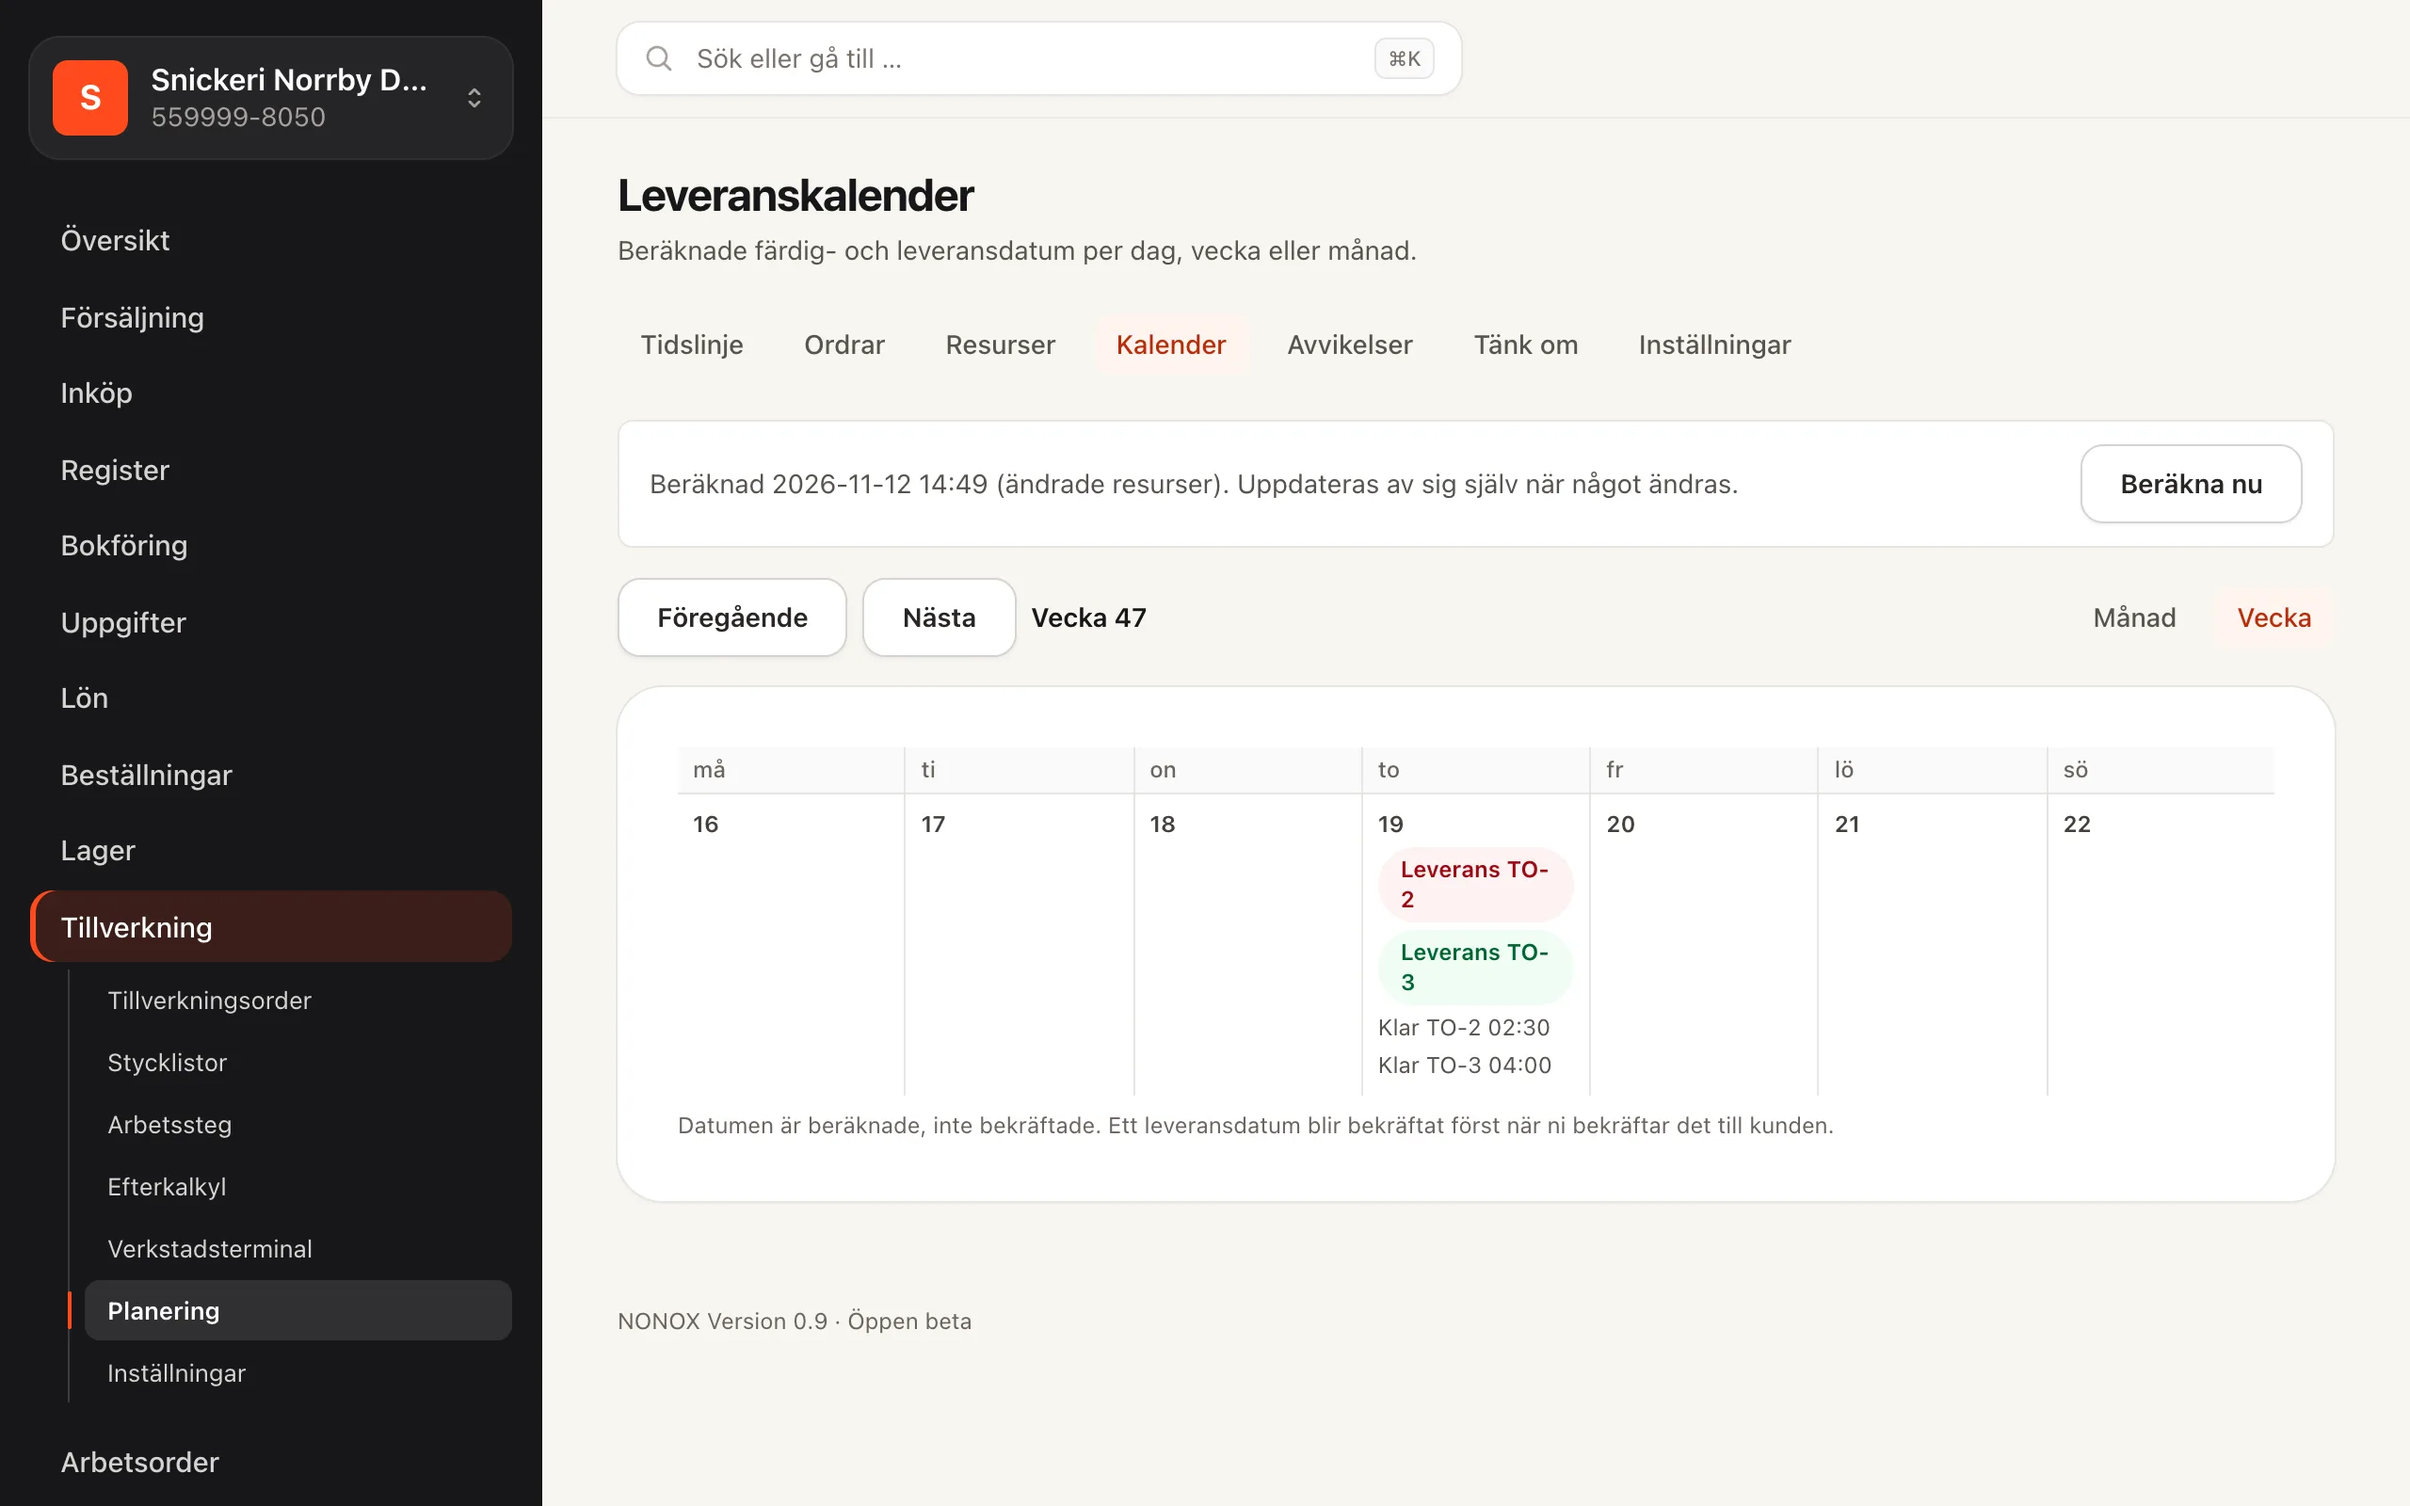
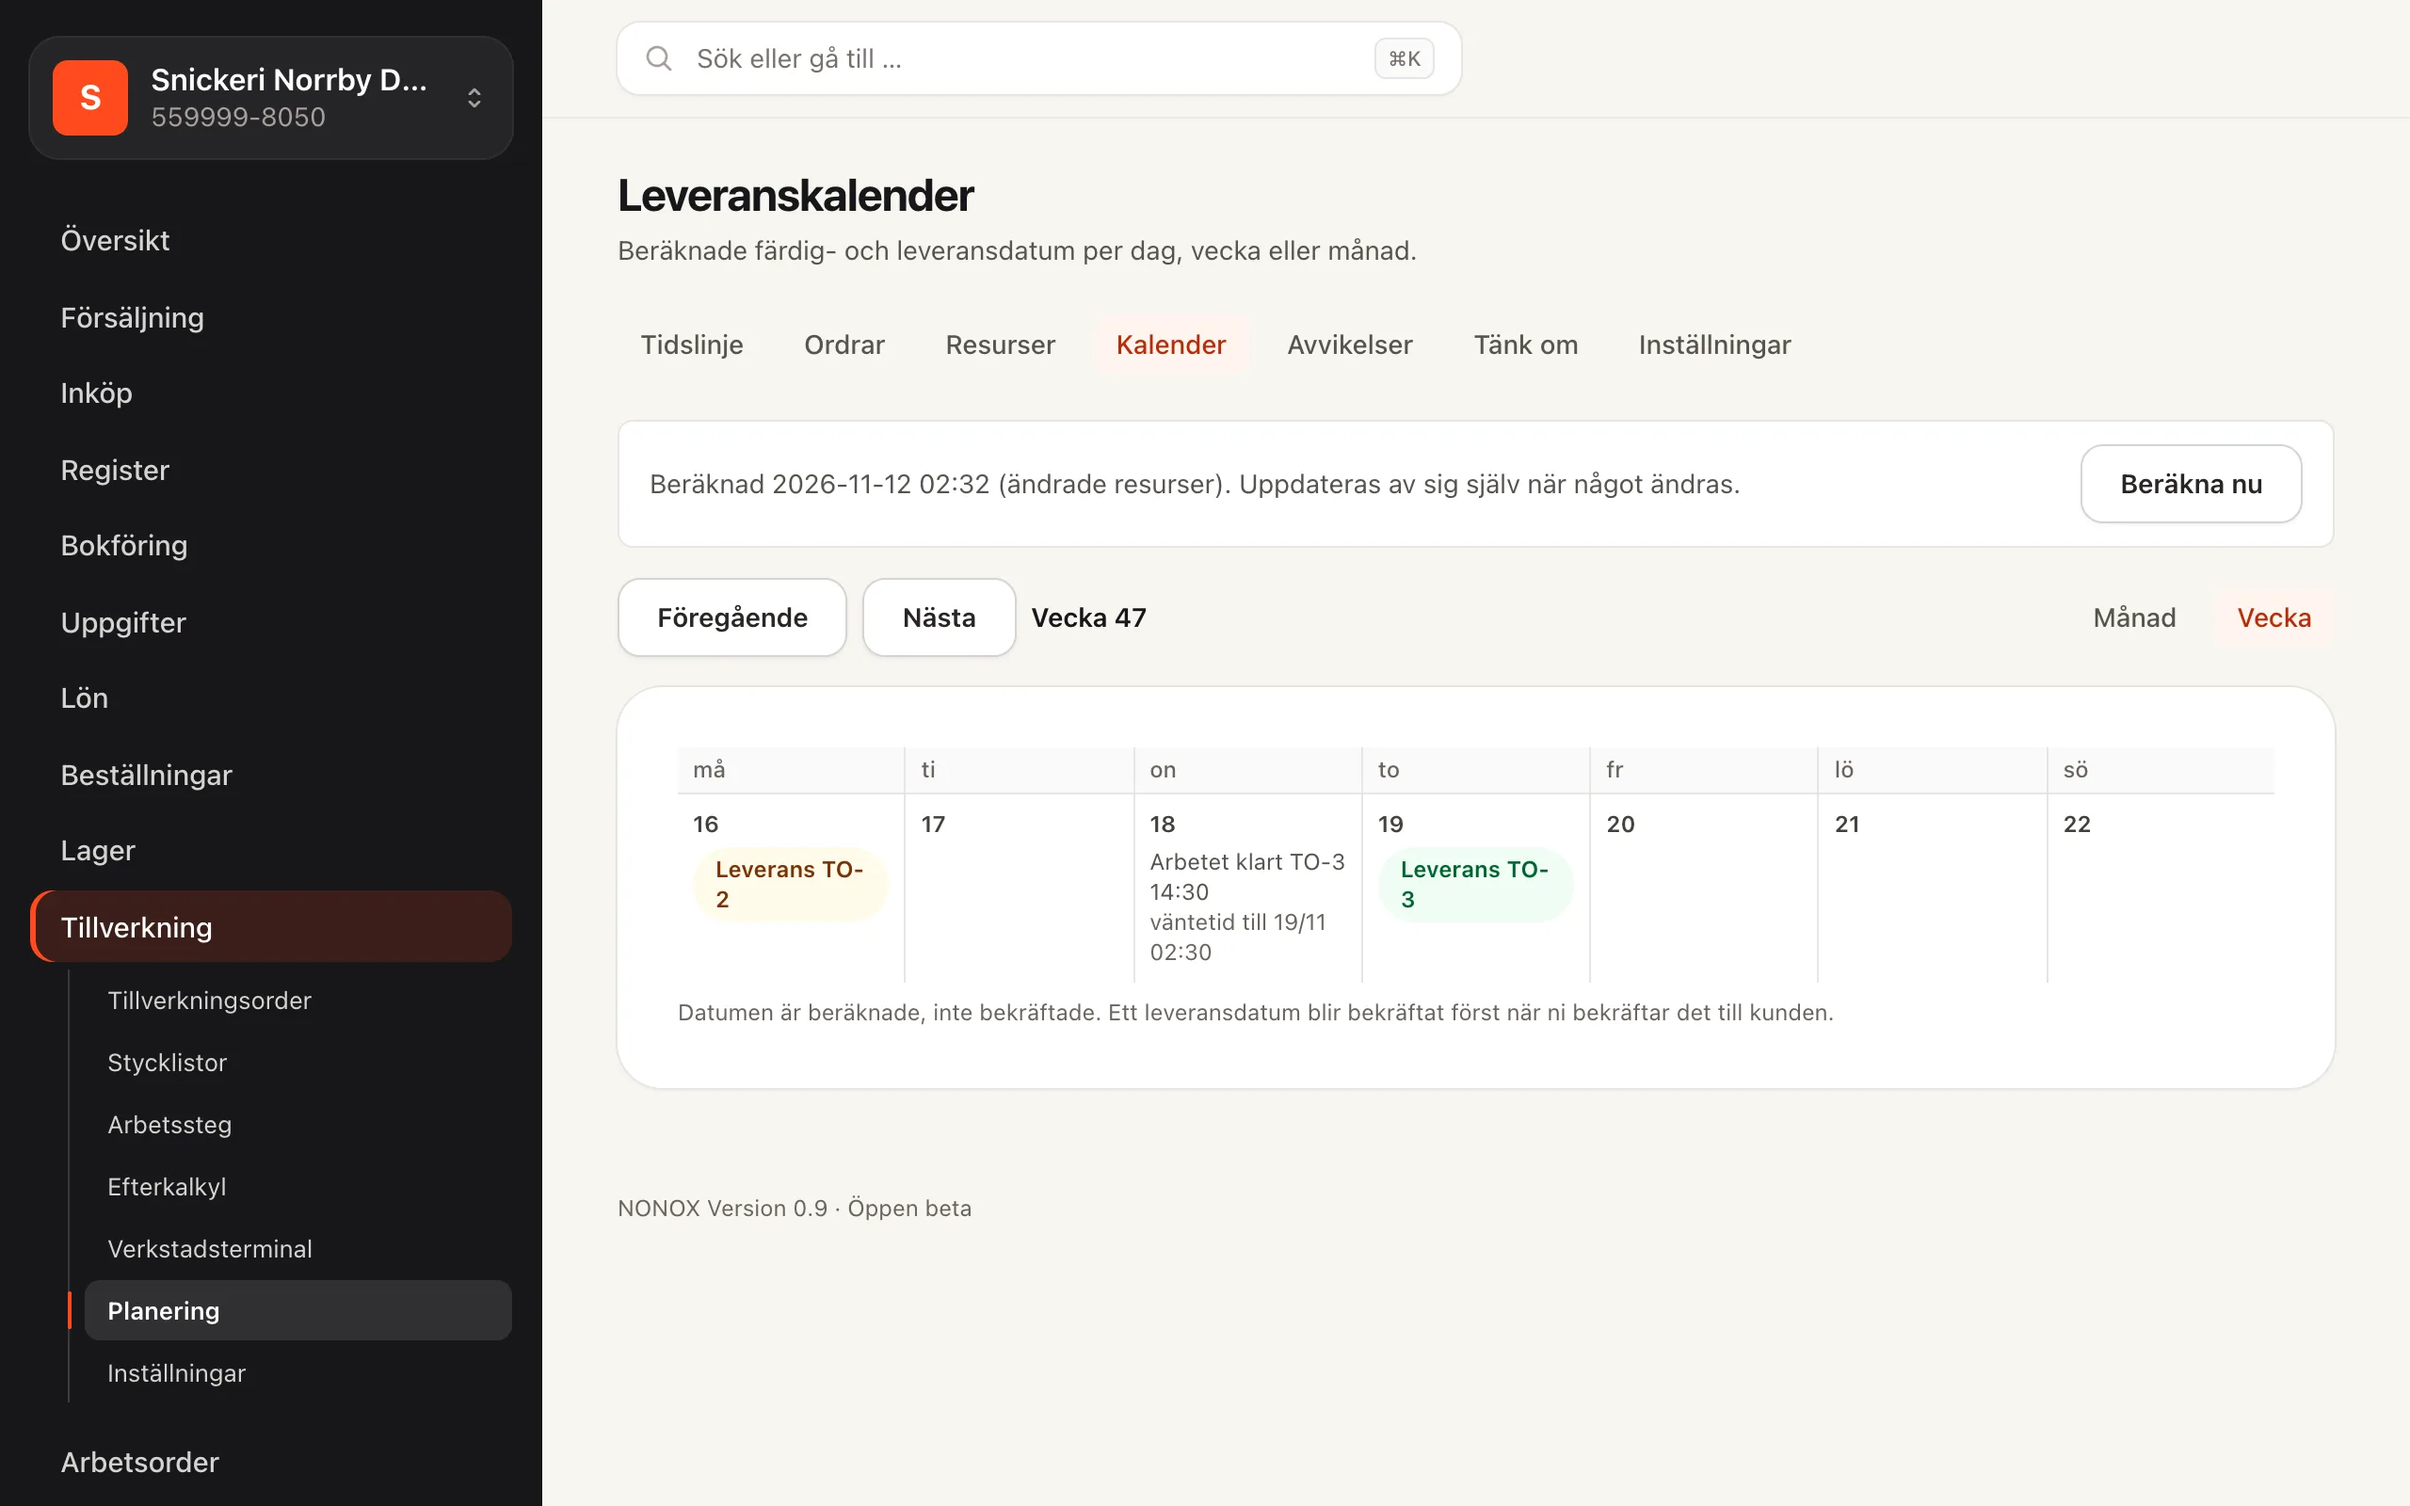
fix(manufacturing): the planning calendar shows when the work is done and the waiting time after it

diff --git a/app/Modules/Manufacturing/Livewire/Planning/CalendarPage.php b/app/Modules/Manufacturing/Livewire/Planning/CalendarPage.php
@@ -5,6 +5,7 @@ declare(strict_types=1);
 namespace App\Modules\Manufacturing\Livewire\Planning;
 
 use App\Modules\Manufacturing\Livewire\Concerns\PlanningScreen;
+use App\Modules\Manufacturing\Models\ProductionPlanSlot;
 use App\Modules\Manufacturing\Planning\Engine\Clock;
 use App\Modules\Manufacturing\Planning\PlanBoard;
 use Carbon\CarbonImmutable;
@@ -14,8 +15,9 @@ use Livewire\Component;
 use Throwable;
 
 /**
- * Tillverkning → Planering → Kalender (ADR-071 §13.1): the forecast finish
- * and delivery dates in a month or a week, each order marked with its
+ * Tillverkning → Planering → Kalender (ADR-071 §13.1): when the work on each
+ * order is done (with any waiting time after it) and the forecast delivery
+ * dates, in a month or a week, each order marked with its
  * traffic light.
  */
 class CalendarPage extends Component
@@ -58,7 +60,14 @@ class CalendarPage extends Component
 
         $forecasts = $run === null ? collect() : $board->forecasts($this->company(), $run);
         $deliveries = $forecasts->filter(fn ($forecast): bool => $forecast->forecast_delivery_on !== null)->groupBy(fn ($forecast): string => $forecast->forecast_delivery_on->toDateString());
-        $finishes = $forecasts->filter(fn ($forecast): bool => $forecast->finish_at !== null)->groupBy(fn ($forecast): string => $forecast->finish_at->setTimezone(Clock::ZONE)->toDateString());
+        // The day the work ends is the last slot's end; the finish can be later by a waiting time (drying, curing).
+        $workEnds = $run === null ? collect() : ProductionPlanSlot::query()->where('run_id', $run->id)->groupBy('production_order_id')
+            ->selectRaw('production_order_id, MAX(ends_at) AS ends_at')->pluck('ends_at', 'production_order_id')
+            ->map(fn ($end): CarbonImmutable => CarbonImmutable::parse((string) $end)->setTimezone(Clock::ZONE));
+        $finishes = $forecasts
+            ->filter(fn ($forecast): bool => $forecast->finish_at !== null && $workEnds->has($forecast->production_order_id))
+            ->map(fn ($forecast): array => ['forecast' => $forecast, 'work' => $workEnds->get($forecast->production_order_id), 'finish' => $forecast->finish_at->setTimezone(Clock::ZONE)])
+            ->groupBy(fn (array $done): string => $done['work']->toDateString());
 
         $days = [];
 

diff --git a/tests/Feature/Manufacturing/PlanningPagesTest.php b/tests/Feature/Manufacturing/PlanningPagesTest.php
@@ -10,6 +10,9 @@ use App\Modules\Manufacturing\Livewire\Planning\OrdersPage;
 use App\Modules\Manufacturing\Livewire\Planning\ResourcesPage;
 use App\Modules\Manufacturing\Livewire\Planning\TimelinePage;
 use App\Modules\Manufacturing\Models\ProductionDeviation;
+use App\Modules\Manufacturing\Models\ProductionPlanForecast;
+use App\Modules\Manufacturing\Models\ProductionPlanRun;
+use App\Modules\Manufacturing\Models\ProductionPlanSlot;
 use App\Modules\Manufacturing\Models\ProductionScenario;
 use App\Modules\Manufacturing\Planning\Engine\Clock;
 use App\Modules\Manufacturing\Planning\ProductionPlanner;
@@ -157,4 +160,20 @@ it('computes suggestions once, applies exactly the one shown, and refuses it aft
     $fresh = $page->get('shown');
     $page->call('apply', $index, $fresh[$index]['hash']);
     expect(ProductionScenario::query()->whereNotNull('applied_at')->sole()->changes)->toEqual($fresh[$index]['changes']);
+});
+
+it('shows when the work is done, and the waiting time after it, not the finish after drying as if work ended at night', function () {
+    $run = ProductionPlanRun::query()->latest('id')->first();
+    $order = $this->shop['orders'][1042];
+    $lastEnd = CurrentCompany::run($this->company, fn () => ProductionPlanSlot::query()->where('run_id', $run->id)->where('production_order_id', $order->id)->max('ends_at'));
+    $forecast = CurrentCompany::run($this->company, fn () => ProductionPlanForecast::query()->where('run_id', $run->id)->where('production_order_id', $order->id)->sole());
+
+    // The rule (ADR-071 §13.3 step 5): the work ends inside working hours, the finish adds the 12 hours' wait.
+    expect(CarbonImmutable::parse($lastEnd)->setTimezone(Clock::ZONE)->format('Y-m-d H:i'))->toBe('2026-11-19 13:30')
+        ->and($forecast->finish_at->setTimezone(Clock::ZONE)->format('Y-m-d H:i'))->toBe('2026-11-20 01:30');
+
+    $this->get(route('manufacturing.planning.calendar'))->assertOk()
+        ->assertSee('Arbetet klart TO-1042 13:30')
+        ->assertSee('väntetid till 20/11 01:30')
+        ->assertDontSee('Klar TO-1042 01:30');
 });

diff --git a/app/Modules/Manufacturing/views/livewire/planning/calendar.blade.php b/app/Modules/Manufacturing/views/livewire/planning/calendar.blade.php
@@ -25,8 +25,13 @@
                             @foreach($deliveries->get($key, collect()) as $forecast)
                                 <li><x-ui.badge :tone="$forecast->status->tone()">{{ __('Leverans') }} {{ $forecast->order->reference() }}</x-ui.badge></li>
                             @endforeach
-                            @foreach($finishes->get($key, collect()) as $forecast)
-                                <li class="text-gray-600">{{ __('Klar') }} {{ $forecast->order->reference() }} {{ $forecast->finish_at->setTimezone('Europe/Stockholm')->format('H:i') }}</li>
+                            @foreach($finishes->get($key, collect()) as $done)
+                                <li class="text-gray-600">
+                                    {{ __('Arbetet klart :order :time', ['order' => $done['forecast']->order->reference(), 'time' => $done['work']->format('H:i')]) }}
+                                    @if($done['finish']->greaterThan($done['work']))
+                                        <span class="block text-xs text-gray-500">{{ __('väntetid till :time', ['time' => $done['finish']->isSameDay($done['work']) ? $done['finish']->format('H:i') : $done['finish']->format('j/n H:i')]) }}</span>
+                                    @endif
+                                </li>
                             @endforeach
                         </ul>
                     </div>

diff --git a/docs/manual/sv/tillverkning/planering.md b/docs/manual/sv/tillverkning/planering.md
@@ -69,9 +69,9 @@ Låst arbete flyttas aldrig. Om personen inte kan göra det, till exempel för a
 
 ## Kalender
 
-**Kalender** visar beräknade leveranser och när ordrarna blir klara, per **Månad** eller **Vecka**.
+**Kalender** visar beräknade leveranser och när arbetet med varje order blir klart, per **Månad** eller **Vecka**. **Leverans TO-3** står på den beräknade leveransdagen. **Arbetet klart TO-3 14:30** står på dagen då det sista arbetssteget blir klart. Har steget en väntetid efter sig, till exempel torkning efter lackering, står **väntetid till** och klockslaget under, och leveransen räknas från när väntetiden är slut.
 
-![En vecka i kalendern med två beräknade leveranser och när ordrarna blir klara.](/bilder/manual/tillverkning/planering-kalender.webp)
+![En vecka i kalendern med två beräknade leveranser, när arbetet blir klart och väntetiden efter.](/bilder/manual/tillverkning/planering-kalender.webp)
 
 ## Avvikelser
 
